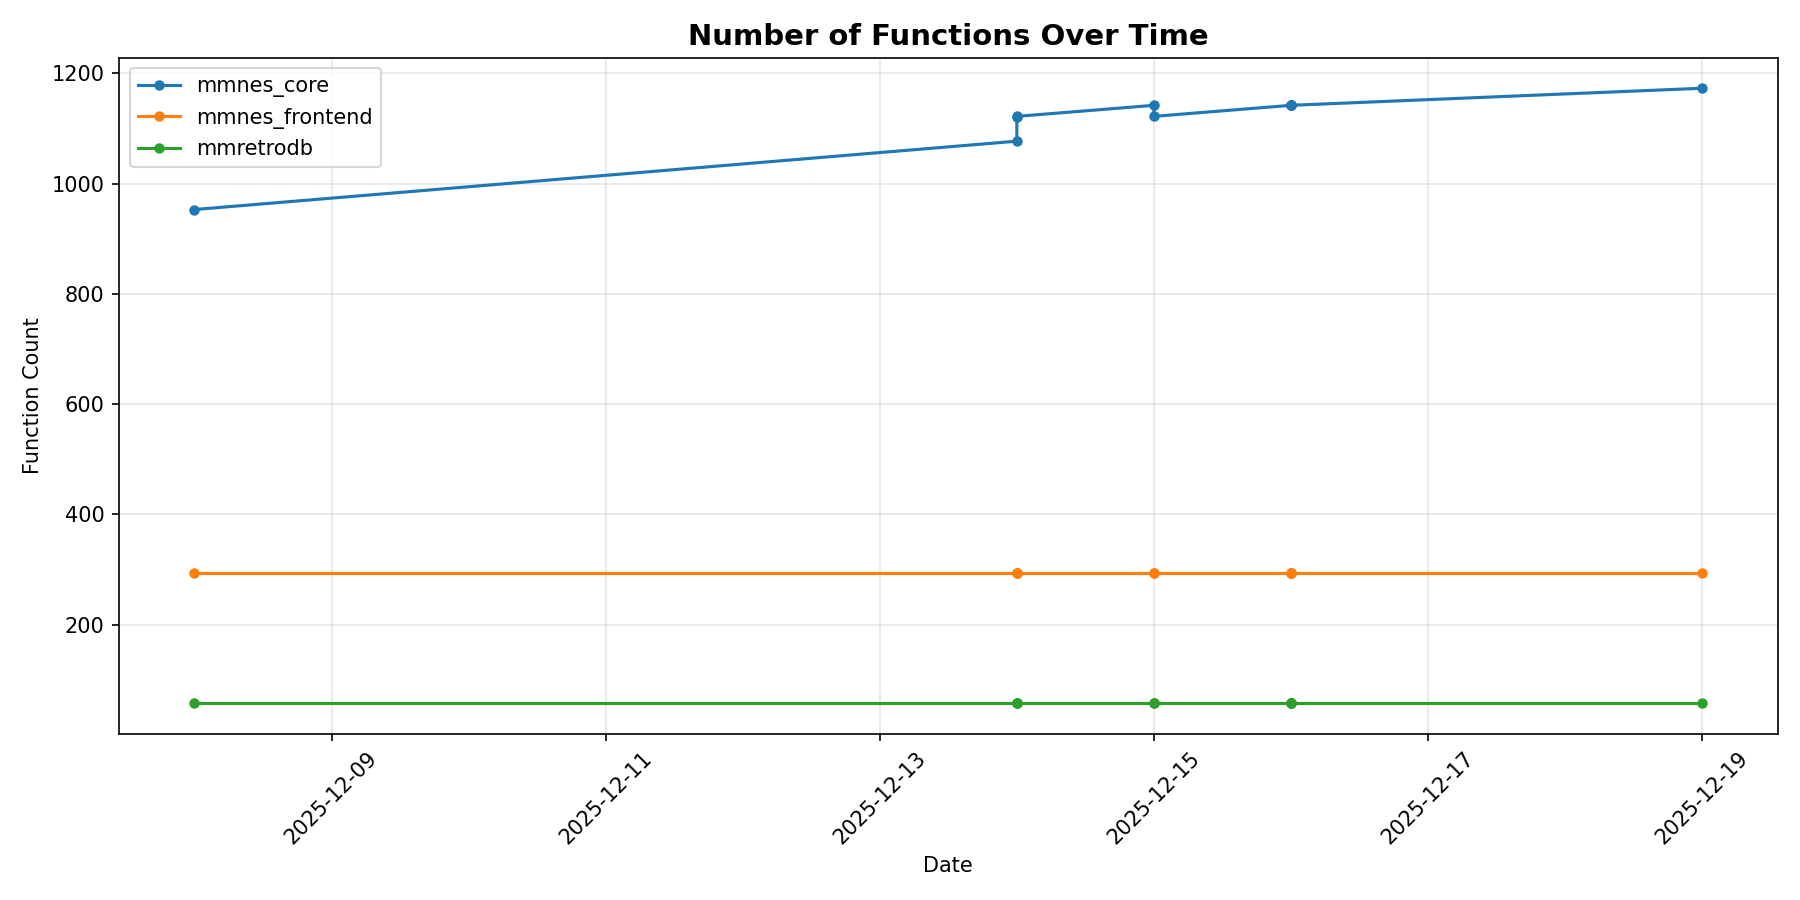
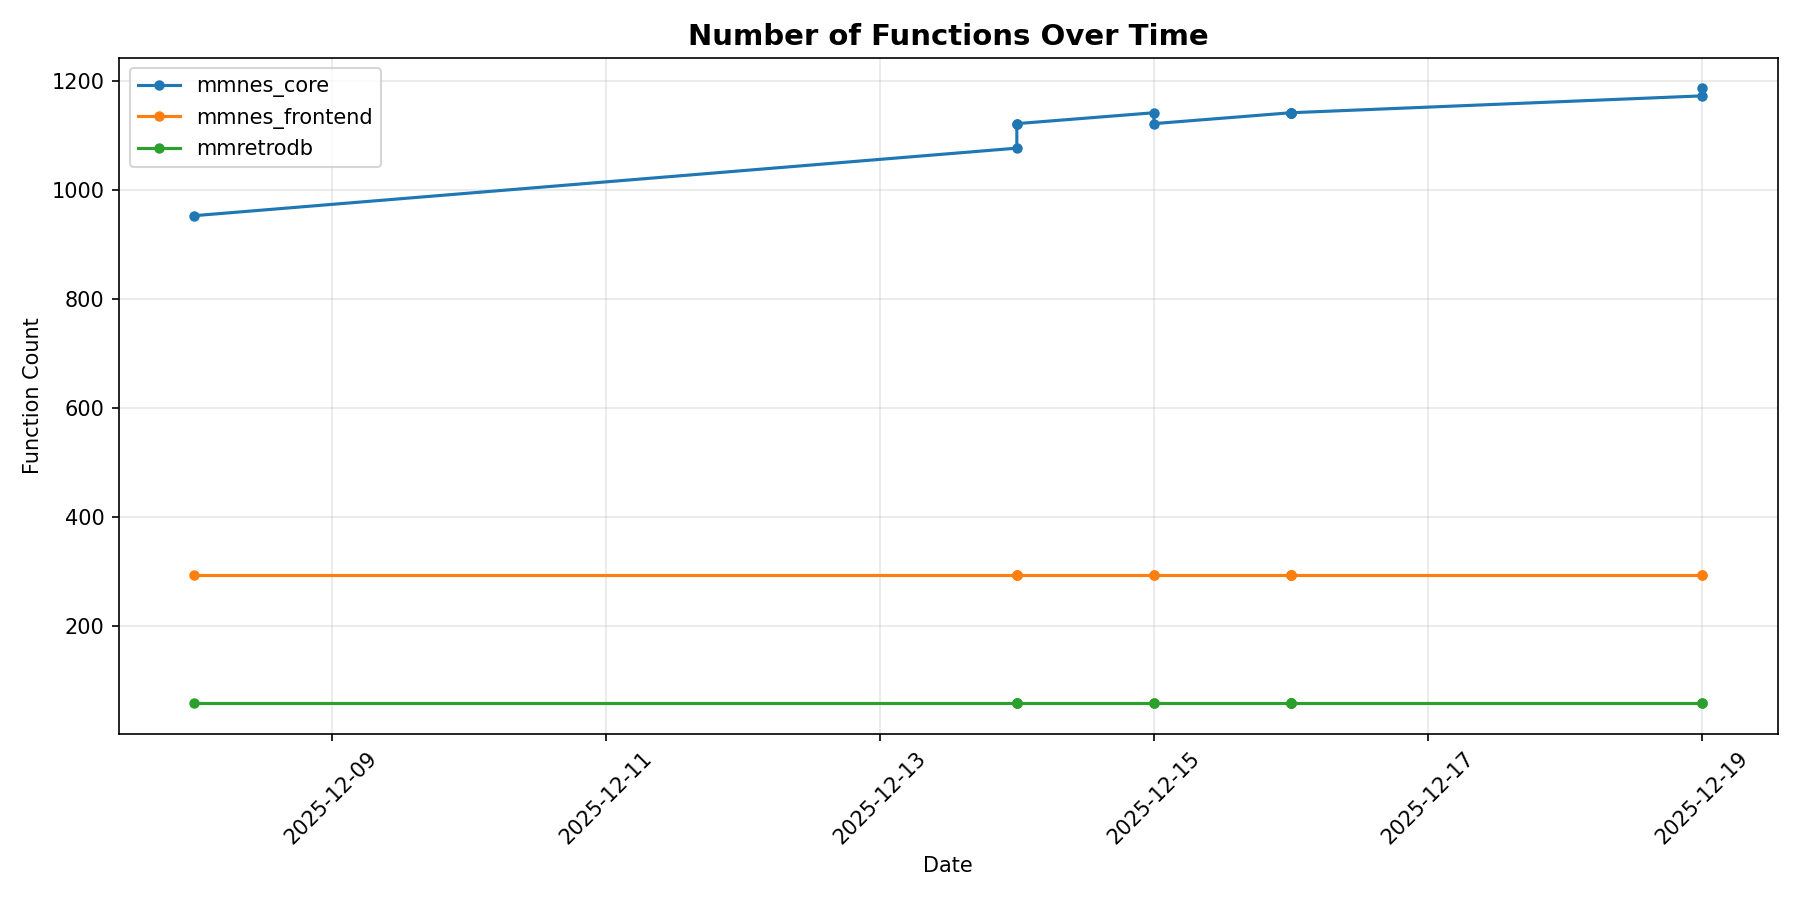
Update metrics data [skip ci]

diff --git a/metrics/data/METRICS_SUMMARY.md b/metrics/data/METRICS_SUMMARY.md
@@ -1,6 +1,6 @@
 # Code Quality Metrics Summary
 
-*Generated: 2025-12-19 20:44:20*
+*Generated: 2025-12-19 22:12:21*
 
 **Latest commit:** `96493ed` on `main`
 
@@ -9,7 +9,7 @@
 | Crate | LOC | Functions | Avg Cyclo | Coverage | Human % | Claude % |
 |-------|-----|-----------|-----------|----------|---------|----------|
 | mmnes_frontend | 4043 | 293 | 3.6 | 0.0% | 100.0% | 0.0% |
-| mmnes_core | 17313 | 1173 | 2.4 | 42.0% | 83.8% | 16.2% |
+| mmnes_core | 17781 | 1187 | 2.4 | 49.1% | 82.2% | 17.8% |
 | mmretrodb | 596 | 58 | 2.8 | 77.0% | 100.0% | 0.0% |
 
 ## Definitions
